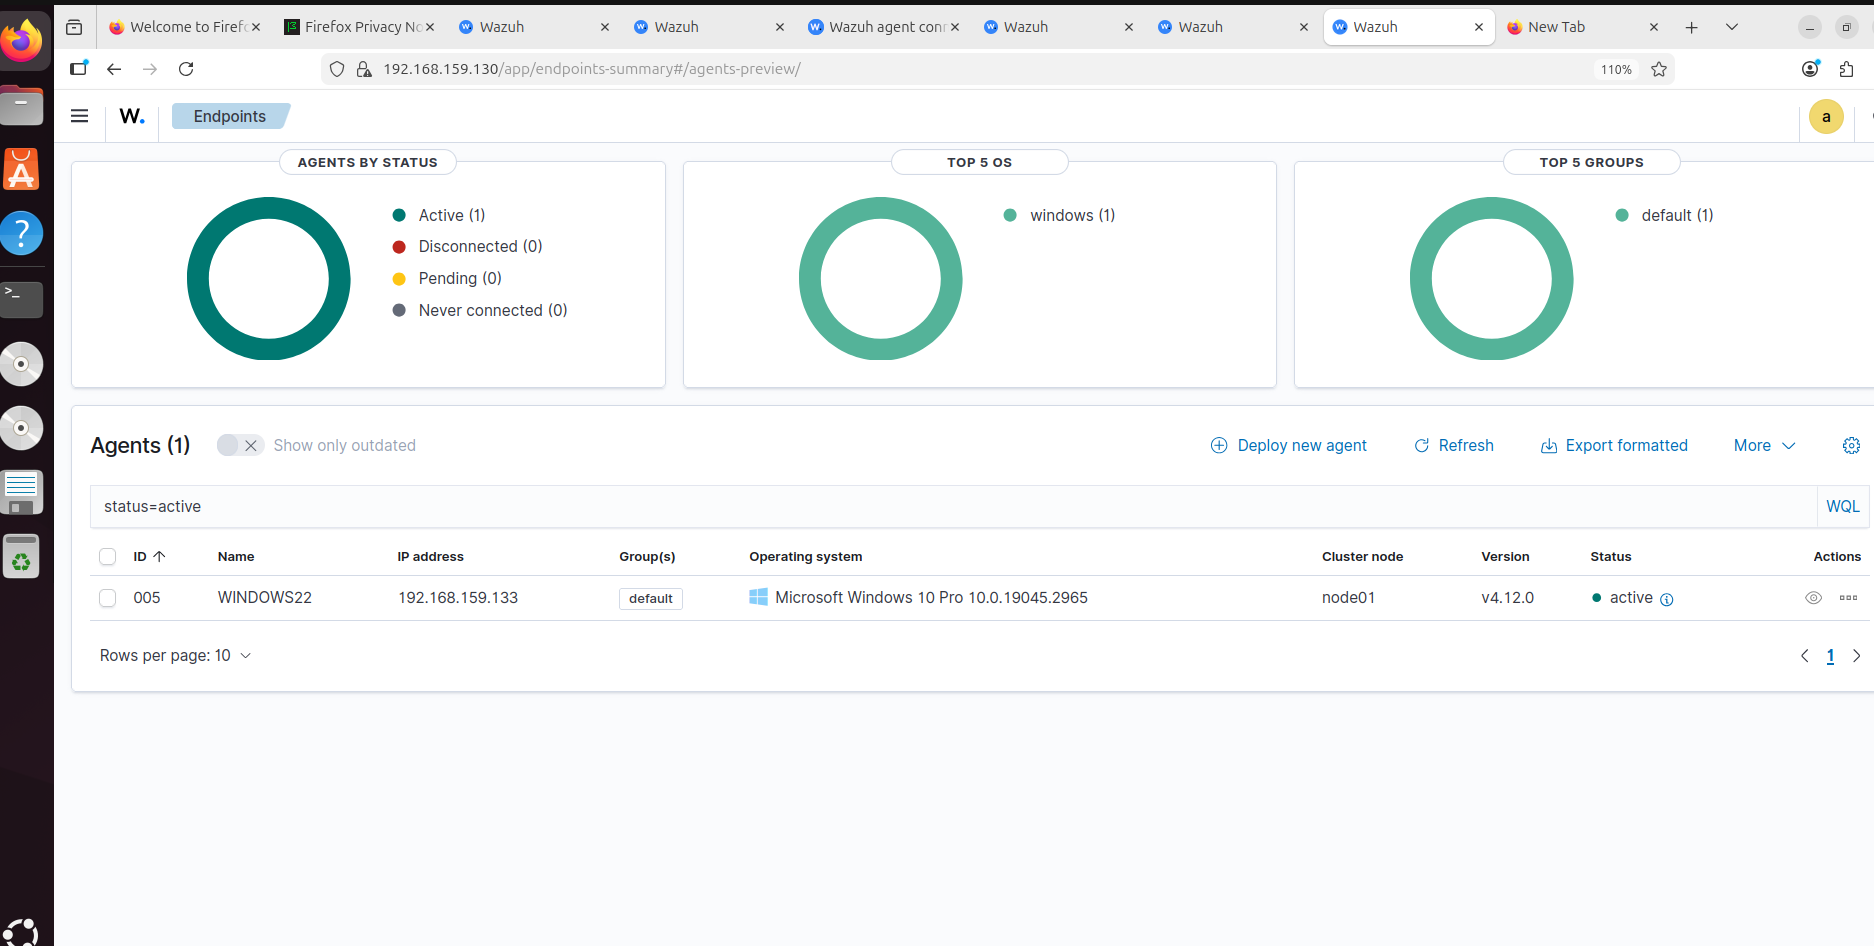
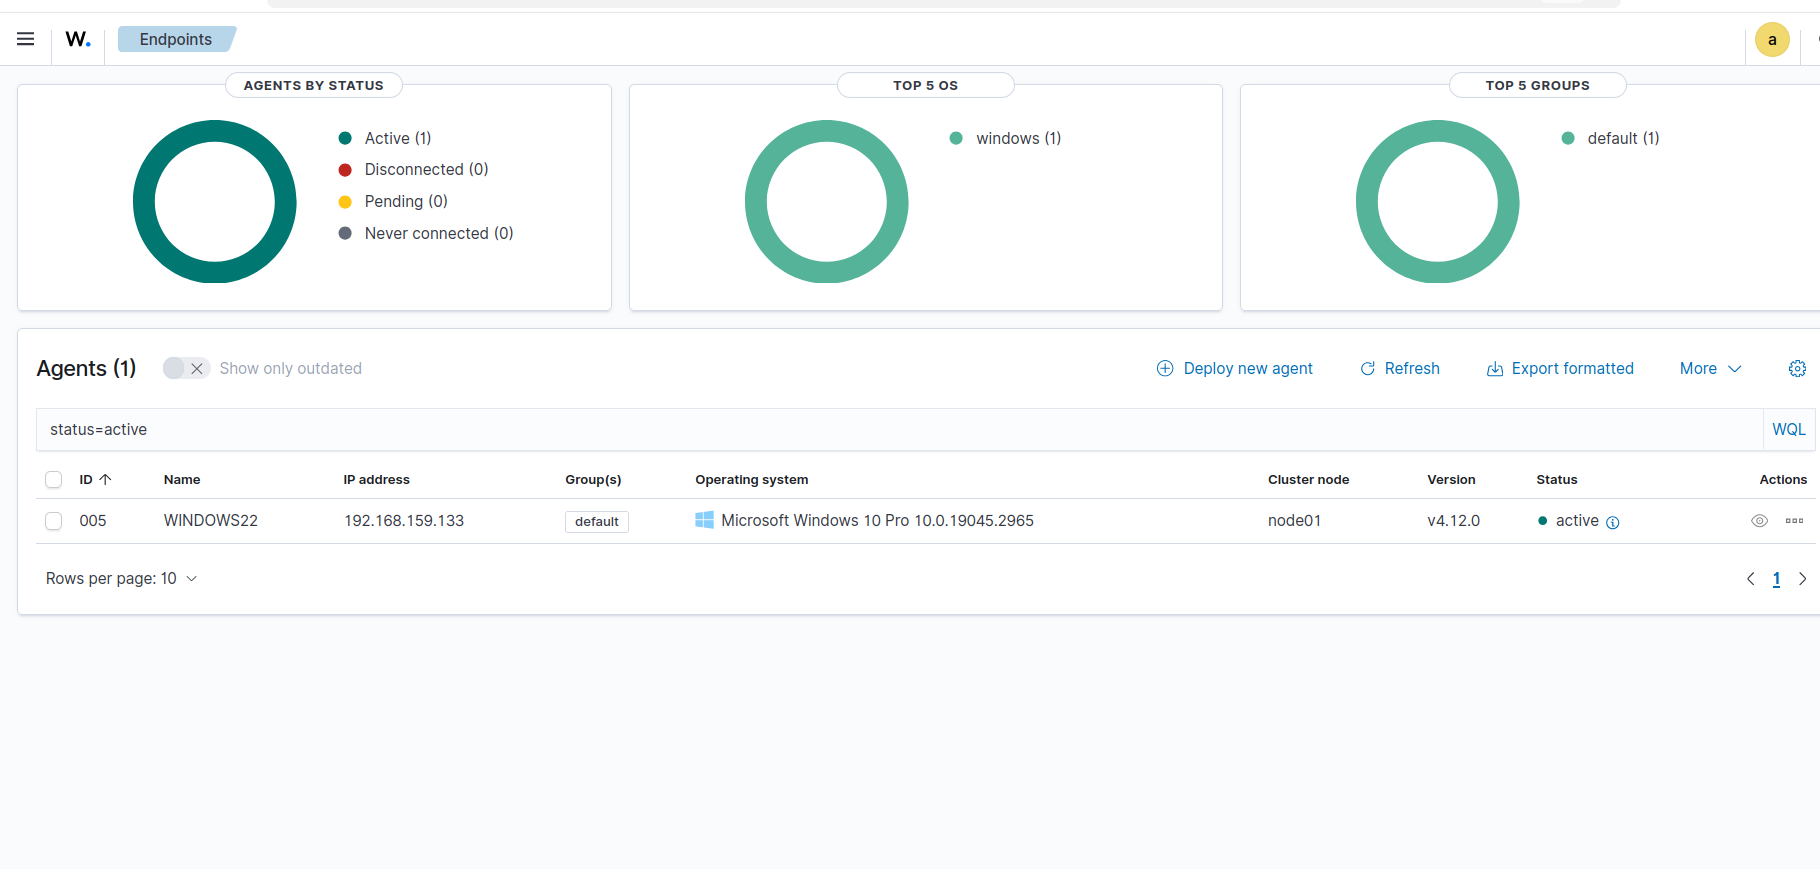
Embed key screenshots in README and clean up screenshots
Crop browser and desktop chrome from the dashboard screenshots so only the Wazuh views show, fix the 'Intgrity' filename typo, and embed the FIM events, alert detail and agent dashboard images in the README.

diff --git a/README.md b/README.md
@@ -52,6 +52,8 @@ del C:\Users\Public\test.txt
 
 This produced three real alerts on the manager, visible in the Wazuh dashboard:
 
+![FIM events for the test file in the Wazuh dashboard](Screenshots/Events%20in%20File%20Integrity%20Monitoring.png)
+
 | Timestamp | Event | Rule ID | Rule description | Level |
 |---|---|---|---|---|
 | 02:51:52 | modified | 550 | Integrity checksum changed | 7 |
@@ -59,6 +61,8 @@ This produced three real alerts on the manager, visible in the Wazuh dashboard:
 | 02:52:10 | deleted | 553 | File deleted | 7 |
 
 Full alert detail for one of the modification events (`c:\users\public\test.txt`):
+
+![Full alert detail for rule 550](Screenshots/Details%20of%20the%20file%20change%20event.png)
 
 ```
 decoder.name: syscheck_integrity_changed
@@ -85,6 +89,8 @@ Wazuh's built-in rule mapping already tags this event against GDPR and HIPAA com
 
 ## Dashboard views
 
+![Agent dashboard with MITRE ATT&CK tactics, compliance and SCA](Screenshots/Windows%20Agent%20Details.png)
+
 - **Endpoints summary** — confirms agent `WINDOWS22` (005) active, Wazuh v4.12.0, group `default`
 - **Agent overview** — MITRE ATT&CK tactic breakdown for the agent (Impact, Defense Evasion, Initial Access, Persistence hits from the default ruleset), plus PCI DSS compliance rollup
 - **Events count evolution** — alert volume over time for the agent
@@ -93,7 +99,7 @@ Wazuh's built-in rule mapping already tags this event against GDPR and HIPAA com
 
 ## Screenshots
 
-See the [`Screenshots`](./Screenshots) folder:
+All screenshots are in the [`Screenshots`](./Screenshots) folder:
 
 | File | Shows |
 |---|---|
@@ -102,7 +108,7 @@ See the [`Screenshots`](./Screenshots) folder:
 | `Creation of test file.png` | Monitored directory with test file created |
 | `Details of the file change event.png` | Full alert detail for a FIM modification event (rule 550) |
 | `Endpoints(1 active agent).png` | Agent registration and active status |
-| `Events in File Intgrity Monitoring....png` | FIM event table — create/modify/delete detections |
+| `Events in File Integrity Monitoring.png` | FIM event table — create/modify/delete detections |
 | `Overview.png` | Wazuh platform dashboard (agent summary, alert severity breakdown) |
 | `Windows Agent Details.png` | Agent-specific dashboard — MITRE ATT&CK, SCA, compliance |
 | `Windows powershell.png` | Commands used to trigger the test FIM events |
